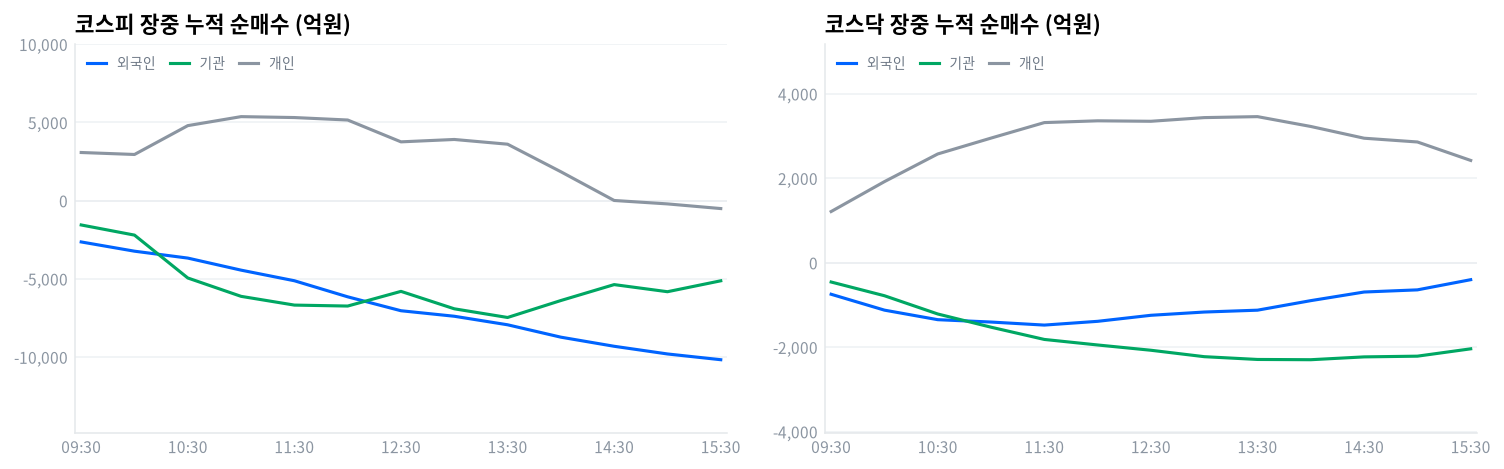
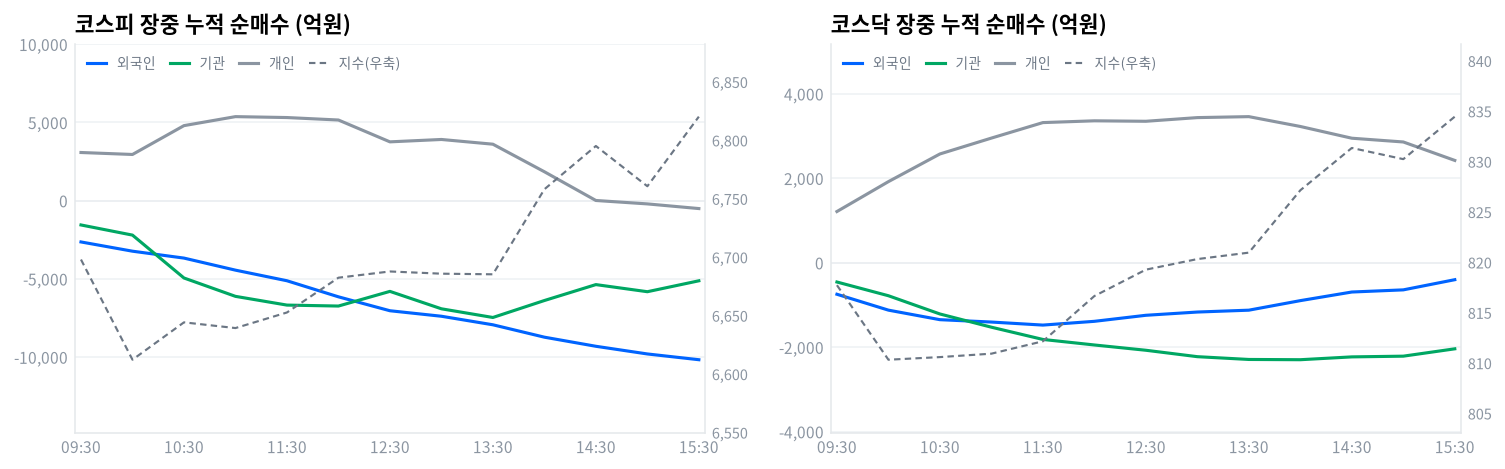
자정 넘겨 도착한 08-31 수집분을 되돌린다 — 장중 계열이 비어 있다
예약 실행이 16:00 UTC(09-01 01:00 KST)에 도착했다. 그 시각 네이버는
08-31 장중 계열을 더는 주지 않아 kr_intraday 30분봉이 0개, kr_technical
종가가 null, kr_session 아시아 지수와 kr_sector 가 08-28 값으로 되돌아왔다.
마감 직후 19:54 KST 수동 실행분(e80f24f)이 08-31 의 정본이므로 그것으로
되돌린다. 시장 데이터·수급·프로그램·거래대금은 손대지 않았다.

diff --git a/kr/data/kr_sector.html b/kr/data/kr_sector.html
@@ -1,1 +1,1 @@
-<style>.spf-grid{display:grid;grid-template-columns:repeat(5,1fr);gap:10px}.spf-block{display:flex;align-items:center;gap:6px;margin:3px 0;font-size:12px}.spf-name{flex:0 0 72px}.spf-bar{flex:1;background:#f2f4f6;border-radius:4px;height:10px}.spf-bar i{display:block;height:10px;border-radius:4px}.spf-val{flex:0 0 52px;text-align:right}.spf-col h4{margin:0 0 6px;font-size:13px}@media(max-width:560px){.spf-grid{grid-template-columns:1fr}}</style><div class="spf-grid"><div class="spf-col"><h4>1D</h4><div class="spf-block"><span class="spf-name">소프트웨어</span><span class="spf-bar"><i style="width:7%;background:#00a763"></i></span><span class="spf-val" style="color:#00a763">+1.77%</span></div><div class="spf-block"><span class="spf-name">은행</span><span class="spf-bar"><i style="width:5%;background:#00a763"></i></span><span class="spf-val" style="color:#00a763">+1.33%</span></div><div class="spf-block"><span class="spf-name">자동차</span><span class="spf-bar"><i style="width:3%;background:#00a763"></i></span><span class="spf-val" style="color:#00a763">+0.81%</span></div><div class="spf-block"><span class="spf-name">철강소재</span><span class="spf-bar"><i style="width:1%;background:#00a763"></i></span><span class="spf-val" style="color:#00a763">+0.35%</span></div><div class="spf-block"><span class="spf-name">증권</span><span class="spf-bar"><i style="width:0%;background:#00a763"></i></span><span class="spf-val" style="color:#00a763">+0.05%</span></div><div class="spf-block"><span class="spf-name">2차전지</span><span class="spf-bar"><i style="width:1%;background:#e5342b"></i></span><span class="spf-val" style="color:#e5342b">-0.17%</span></div><div class="spf-block"><span class="spf-name">헬스케어</span><span class="spf-bar"><i style="width:1%;background:#e5342b"></i></span><span class="spf-val" style="color:#e5342b">-0.33%</span></div><div class="spf-block"><span class="spf-name">건설</span><span class="spf-bar"><i style="width:4%;background:#e5342b"></i></span><span class="spf-val" style="color:#e5342b">-0.90%</span></div><div class="spf-block"><span class="spf-name">방산</span><span class="spf-bar"><i style="width:4%;background:#e5342b"></i></span><span class="spf-val" style="color:#e5342b">-0.98%</span></div><div class="spf-block"><span class="spf-name">로봇</span><span class="spf-bar"><i style="width:4%;background:#e5342b"></i></span><span class="spf-val" style="color:#e5342b">-1.05%</span></div><div class="spf-block"><span class="spf-name">조선</span><span class="spf-bar"><i style="width:4%;background:#e5342b"></i></span><span class="spf-val" style="color:#e5342b">-1.05%</span></div><div class="spf-block"><span class="spf-name">반도체</span><span class="spf-bar"><i style="width:9%;background:#e5342b"></i></span><span class="spf-val" style="color:#e5342b">-2.32%</span></div></div><div class="spf-col"><h4>1W</h4><div class="spf-block"><span class="spf-name">건설</span><span class="spf-bar"><i style="width:59%;background:#00a763"></i></span><span class="spf-val" style="color:#00a763">+14.76%</span></div><div class="spf-block"><span class="spf-name">철강소재</span><span class="spf-bar"><i style="width:45%;background:#00a763"></i></span><span class="spf-val" style="color:#00a763">+11.26%</span></div><div class="spf-block"><span class="spf-name">2차전지</span><span class="spf-bar"><i style="width:41%;background:#00a763"></i></span><span class="spf-val" style="color:#00a763">+10.25%</span></div><div class="spf-block"><span class="spf-name">방산</span><span class="spf-bar"><i style="width:22%;background:#00a763"></i></span><span class="spf-val" style="color:#00a763">+5.48%</span></div><div class="spf-block"><span class="spf-name">은행</span><span class="spf-bar"><i style="width:20%;background:#00a763"></i></span><span class="spf-val" style="color:#00a763">+4.94%</span></div><div class="spf-block"><span class="spf-name">조선</span><span class="spf-bar"><i style="width:15%;background:#00a763"></i></span><span class="spf-val" style="color:#00a763">+3.76%</span></div><div class="spf-block"><span class="spf-name">헬스케어</span><span class="spf-bar"><i style="width:8%;background:#00a763"></i></span><span class="spf-val" style="color:#00a763">+1.88%</span></div><div class="spf-block"><span class="spf-name">증권</span><span class="spf-bar"><i style="width:7%;background:#00a763"></i></span><span class="spf-val" style="color:#00a763">+1.67%</span></div><div class="spf-block"><span class="spf-name">소프트웨어</span><span class="spf-bar"><i style="width:6%;background:#00a763"></i></span><span class="spf-val" style="color:#00a763">+1.59%</span></div><div class="spf-block"><span class="spf-name">로봇</span><span class="spf-bar"><i style="width:9%;background:#e5342b"></i></span><span class="spf-val" style="color:#e5342b">-2.14%</span></div><div class="spf-block"><span class="spf-name">반도체</span><span class="spf-bar"><i style="width:9%;background:#e5342b"></i></span><span class="spf-val" style="color:#e5342b">-2.21%</span></div><div class="spf-block"><span class="spf-name">자동차</span><span class="spf-bar"><i style="width:11%;background:#e5342b"></i></span><span class="spf-val" style="color:#e5342b">-2.86%</span></div></div><div class="spf-col"><h4>1M</h4><div class="spf-block"><span class="spf-name">건설</span><span class="spf-bar"><i style="width:100%;background:#00a763"></i></span><span class="spf-val" style="color:#00a763">+37.73%</span></div><div class="spf-block"><span class="spf-name">철강소재</span><span class="spf-bar"><i style="width:100%;background:#00a763"></i></span><span class="spf-val" style="color:#00a763">+32.99%</span></div><div class="spf-block"><span class="spf-name">2차전지</span><span class="spf-bar"><i style="width:100%;background:#00a763"></i></span><span class="spf-val" style="color:#00a763">+30.09%</span></div><div class="spf-block"><span class="spf-name">반도체</span><span class="spf-bar"><i style="width:100%;background:#00a763"></i></span><span class="spf-val" style="color:#00a763">+26.36%</span></div><div class="spf-block"><span class="spf-name">방산</span><span class="spf-bar"><i style="width:99%;background:#00a763"></i></span><span class="spf-val" style="color:#00a763">+24.85%</span></div><div class="spf-block"><span class="spf-name">로봇</span><span class="spf-bar"><i style="width:73%;background:#00a763"></i></span><span class="spf-val" style="color:#00a763">+18.15%</span></div><div class="spf-block"><span class="spf-name">헬스케어</span><span class="spf-bar"><i style="width:70%;background:#00a763"></i></span><span class="spf-val" style="color:#00a763">+17.44%</span></div><div class="spf-block"><span class="spf-name">조선</span><span class="spf-bar"><i style="width:43%;background:#00a763"></i></span><span class="spf-val" style="color:#00a763">+10.69%</span></div><div class="spf-block"><span class="spf-name">소프트웨어</span><span class="spf-bar"><i style="width:34%;background:#00a763"></i></span><span class="spf-val" style="color:#00a763">+8.43%</span></div><div class="spf-block"><span class="spf-name">자동차</span><span class="spf-bar"><i style="width:33%;background:#00a763"></i></span><span class="spf-val" style="color:#00a763">+8.17%</span></div><div class="spf-block"><span class="spf-name">은행</span><span class="spf-bar"><i style="width:32%;background:#00a763"></i></span><span class="spf-val" style="color:#00a763">+8.09%</span></div><div class="spf-block"><span class="spf-name">증권</span><span class="spf-bar"><i style="width:32%;background:#00a763"></i></span><span class="spf-val" style="color:#00a763">+7.89%</span></div></div><div class="spf-col"><h4>6M</h4><div class="spf-block"><span class="spf-name">반도체</span><span class="spf-bar"><i style="width:100%;background:#00a763"></i></span><span class="spf-val" style="color:#00a763">+29.84%</span></div><div class="spf-block"><span class="spf-name">건설</span><span class="spf-bar"><i style="width:40%;background:#00a763"></i></span><span class="spf-val" style="color:#00a763">+9.99%</span></div><div class="spf-block"><span class="spf-name">은행</span><span class="spf-bar"><i style="width:11%;background:#e5342b"></i></span><span class="spf-val" style="color:#e5342b">-2.82%</span></div><div class="spf-block"><span class="spf-name">로봇</span><span class="spf-bar"><i style="width:56%;background:#e5342b"></i></span><span class="spf-val" style="color:#e5342b">-13.95%</span></div><div class="spf-block"><span class="spf-name">소프트웨어</span><span class="spf-bar"><i style="width:58%;background:#e5342b"></i></span><span class="spf-val" style="color:#e5342b">-14.41%</span></div><div class="spf-block"><span class="spf-name">자동차</span><span class="spf-bar"><i style="width:70%;background:#e5342b"></i></span><span class="spf-val" style="color:#e5342b">-17.47%</span></div><div class="spf-block"><span class="spf-name">2차전지</span><span class="spf-bar"><i style="width:70%;background:#e5342b"></i></span><span class="spf-val" style="color:#e5342b">-17.50%</span></div><div class="spf-block"><span class="spf-name">철강소재</span><span class="spf-bar"><i style="width:78%;background:#e5342b"></i></span><span class="spf-val" style="color:#e5342b">-19.51%</span></div><div class="spf-block"><span class="spf-name">방산</span><span class="spf-bar"><i style="width:87%;background:#e5342b"></i></span><span class="spf-val" style="color:#e5342b">-21.70%</span></div><div class="spf-block"><span class="spf-name">조선</span><span class="spf-bar"><i style="width:100%;background:#e5342b"></i></span><span class="spf-val" style="color:#e5342b">-26.78%</span></div><div class="spf-block"><span class="spf-name">헬스케어</span><span class="spf-bar"><i style="width:100%;background:#e5342b"></i></span><span class="spf-val" style="color:#e5342b">-28.49%</span></div><div class="spf-block"><span class="spf-name">증권</span><span class="spf-bar"><i style="width:100%;background:#e5342b"></i></span><span class="spf-val" style="color:#e5342b">-35.34%</span></div></div><div class="spf-col"><h4>1Y</h4><div class="spf-block"><span class="spf-name">반도체</span><span class="spf-bar"><i style="width:100%;background:#00a763"></i></span><span class="spf-val" style="color:#00a763">+223.75%</span></div><div class="spf-block"><span class="spf-name">로봇</span><span class="spf-bar"><i style="width:100%;background:#00a763"></i></span><span class="spf-val" style="color:#00a763">+84.67%</span></div><div class="spf-block"><span class="spf-name">건설</span><span class="spf-bar"><i style="width:100%;background:#00a763"></i></span><span class="spf-val" style="color:#00a763">+73.67%</span></div><div class="spf-block"><span class="spf-name">자동차</span><span class="spf-bar"><i style="width:100%;background:#00a763"></i></span><span class="spf-val" style="color:#00a763">+45.16%</span></div><div class="spf-block"><span class="spf-name">증권</span><span class="spf-bar"><i style="width:100%;background:#00a763"></i></span><span class="spf-val" style="color:#00a763">+42.50%</span></div><div class="spf-block"><span class="spf-name">은행</span><span class="spf-bar"><i style="width:100%;background:#00a763"></i></span><span class="spf-val" style="color:#00a763">+37.59%</span></div><div class="spf-block"><span class="spf-name">2차전지</span><span class="spf-bar"><i style="width:63%;background:#00a763"></i></span><span class="spf-val" style="color:#00a763">+15.65%</span></div><div class="spf-block"><span class="spf-name">철강소재</span><span class="spf-bar"><i style="width:49%;background:#00a763"></i></span><span class="spf-val" style="color:#00a763">+12.22%</span></div><div class="spf-block"><span class="spf-name">방산</span><span class="spf-bar"><i style="width:40%;background:#00a763"></i></span><span class="spf-val" style="color:#00a763">+9.93%</span></div><div class="spf-block"><span class="spf-name">헬스케어</span><span class="spf-bar"><i style="width:18%;background:#e5342b"></i></span><span class="spf-val" style="color:#e5342b">-4.59%</span></div><div class="spf-block"><span class="spf-name">조선</span><span class="spf-bar"><i style="width:27%;background:#e5342b"></i></span><span class="spf-val" style="color:#e5342b">-6.68%</span></div><div class="spf-block"><span class="spf-name">소프트웨어</span><span class="spf-bar"><i style="width:33%;background:#e5342b"></i></span><span class="spf-val" style="color:#e5342b">-8.20%</span></div></div></div>
+<style>.spf-grid{display:grid;grid-template-columns:repeat(5,1fr);gap:10px}.spf-block{display:flex;align-items:center;gap:6px;margin:3px 0;font-size:12px}.spf-name{flex:0 0 72px}.spf-bar{flex:1;background:#f2f4f6;border-radius:4px;height:10px}.spf-bar i{display:block;height:10px;border-radius:4px}.spf-val{flex:0 0 52px;text-align:right}.spf-col h4{margin:0 0 6px;font-size:13px}@media(max-width:560px){.spf-grid{grid-template-columns:1fr}}</style><div class="spf-grid"><div class="spf-col"><h4>1D</h4><div class="spf-block"><span class="spf-name">2차전지</span><span class="spf-bar"><i style="width:10%;background:#00a763"></i></span><span class="spf-val" style="color:#00a763">+2.61%</span></div><div class="spf-block"><span class="spf-name">로봇</span><span class="spf-bar"><i style="width:5%;background:#00a763"></i></span><span class="spf-val" style="color:#00a763">+1.24%</span></div><div class="spf-block"><span class="spf-name">자동차</span><span class="spf-bar"><i style="width:4%;background:#00a763"></i></span><span class="spf-val" style="color:#00a763">+0.98%</span></div><div class="spf-block"><span class="spf-name">반도체</span><span class="spf-bar"><i style="width:1%;background:#00a763"></i></span><span class="spf-val" style="color:#00a763">+0.34%</span></div><div class="spf-block"><span class="spf-name">은행</span><span class="spf-bar"><i style="width:0%;background:#00a763"></i></span><span class="spf-val" style="color:#00a763">+0.03%</span></div><div class="spf-block"><span class="spf-name">소프트웨어</span><span class="spf-bar"><i style="width:0%;background:#e5342b"></i></span><span class="spf-val" style="color:#e5342b">-0.06%</span></div><div class="spf-block"><span class="spf-name">증권</span><span class="spf-bar"><i style="width:3%;background:#e5342b"></i></span><span class="spf-val" style="color:#e5342b">-0.81%</span></div><div class="spf-block"><span class="spf-name">조선</span><span class="spf-bar"><i style="width:4%;background:#e5342b"></i></span><span class="spf-val" style="color:#e5342b">-0.96%</span></div><div class="spf-block"><span class="spf-name">헬스케어</span><span class="spf-bar"><i style="width:6%;background:#e5342b"></i></span><span class="spf-val" style="color:#e5342b">-1.43%</span></div><div class="spf-block"><span class="spf-name">철강소재</span><span class="spf-bar"><i style="width:9%;background:#e5342b"></i></span><span class="spf-val" style="color:#e5342b">-2.30%</span></div><div class="spf-block"><span class="spf-name">방산</span><span class="spf-bar"><i style="width:13%;background:#e5342b"></i></span><span class="spf-val" style="color:#e5342b">-3.16%</span></div><div class="spf-block"><span class="spf-name">건설</span><span class="spf-bar"><i style="width:15%;background:#e5342b"></i></span><span class="spf-val" style="color:#e5342b">-3.63%</span></div></div><div class="spf-col"><h4>1W</h4><div class="spf-block"><span class="spf-name">건설</span><span class="spf-bar"><i style="width:42%;background:#00a763"></i></span><span class="spf-val" style="color:#00a763">+10.59%</span></div><div class="spf-block"><span class="spf-name">2차전지</span><span class="spf-bar"><i style="width:26%;background:#00a763"></i></span><span class="spf-val" style="color:#00a763">+6.49%</span></div><div class="spf-block"><span class="spf-name">은행</span><span class="spf-bar"><i style="width:20%;background:#00a763"></i></span><span class="spf-val" style="color:#00a763">+4.90%</span></div><div class="spf-block"><span class="spf-name">철강소재</span><span class="spf-bar"><i style="width:12%;background:#00a763"></i></span><span class="spf-val" style="color:#00a763">+2.91%</span></div><div class="spf-block"><span class="spf-name">조선</span><span class="spf-bar"><i style="width:11%;background:#00a763"></i></span><span class="spf-val" style="color:#00a763">+2.82%</span></div><div class="spf-block"><span class="spf-name">증권</span><span class="spf-bar"><i style="width:11%;background:#00a763"></i></span><span class="spf-val" style="color:#00a763">+2.68%</span></div><div class="spf-block"><span class="spf-name">반도체</span><span class="spf-bar"><i style="width:8%;background:#00a763"></i></span><span class="spf-val" style="color:#00a763">+2.00%</span></div><div class="spf-block"><span class="spf-name">방산</span><span class="spf-bar"><i style="width:3%;background:#00a763"></i></span><span class="spf-val" style="color:#00a763">+0.73%</span></div><div class="spf-block"><span class="spf-name">소프트웨어</span><span class="spf-bar"><i style="width:2%;background:#00a763"></i></span><span class="spf-val" style="color:#00a763">+0.58%</span></div><div class="spf-block"><span class="spf-name">로봇</span><span class="spf-bar"><i style="width:2%;background:#00a763"></i></span><span class="spf-val" style="color:#00a763">+0.54%</span></div><div class="spf-block"><span class="spf-name">자동차</span><span class="spf-bar"><i style="width:9%;background:#e5342b"></i></span><span class="spf-val" style="color:#e5342b">-2.18%</span></div><div class="spf-block"><span class="spf-name">헬스케어</span><span class="spf-bar"><i style="width:9%;background:#e5342b"></i></span><span class="spf-val" style="color:#e5342b">-2.22%</span></div></div><div class="spf-col"><h4>1M</h4><div class="spf-block"><span class="spf-name">건설</span><span class="spf-bar"><i style="width:100%;background:#00a763"></i></span><span class="spf-val" style="color:#00a763">+34.93%</span></div><div class="spf-block"><span class="spf-name">반도체</span><span class="spf-bar"><i style="width:100%;background:#00a763"></i></span><span class="spf-val" style="color:#00a763">+33.10%</span></div><div class="spf-block"><span class="spf-name">2차전지</span><span class="spf-bar"><i style="width:100%;background:#00a763"></i></span><span class="spf-val" style="color:#00a763">+28.62%</span></div><div class="spf-block"><span class="spf-name">철강소재</span><span class="spf-bar"><i style="width:100%;background:#00a763"></i></span><span class="spf-val" style="color:#00a763">+26.51%</span></div><div class="spf-block"><span class="spf-name">로봇</span><span class="spf-bar"><i style="width:96%;background:#00a763"></i></span><span class="spf-val" style="color:#00a763">+23.92%</span></div><div class="spf-block"><span class="spf-name">방산</span><span class="spf-bar"><i style="width:65%;background:#00a763"></i></span><span class="spf-val" style="color:#00a763">+16.30%</span></div><div class="spf-block"><span class="spf-name">헬스케어</span><span class="spf-bar"><i style="width:62%;background:#00a763"></i></span><span class="spf-val" style="color:#00a763">+15.43%</span></div><div class="spf-block"><span class="spf-name">자동차</span><span class="spf-bar"><i style="width:35%;background:#00a763"></i></span><span class="spf-val" style="color:#00a763">+8.83%</span></div><div class="spf-block"><span class="spf-name">소프트웨어</span><span class="spf-bar"><i style="width:33%;background:#00a763"></i></span><span class="spf-val" style="color:#00a763">+8.17%</span></div><div class="spf-block"><span class="spf-name">증권</span><span class="spf-bar"><i style="width:29%;background:#00a763"></i></span><span class="spf-val" style="color:#00a763">+7.33%</span></div><div class="spf-block"><span class="spf-name">은행</span><span class="spf-bar"><i style="width:22%;background:#00a763"></i></span><span class="spf-val" style="color:#00a763">+5.61%</span></div><div class="spf-block"><span class="spf-name">조선</span><span class="spf-bar"><i style="width:22%;background:#00a763"></i></span><span class="spf-val" style="color:#00a763">+5.40%</span></div></div><div class="spf-col"><h4>6M</h4><div class="spf-block"><span class="spf-name">반도체</span><span class="spf-bar"><i style="width:100%;background:#00a763"></i></span><span class="spf-val" style="color:#00a763">+29.58%</span></div><div class="spf-block"><span class="spf-name">건설</span><span class="spf-bar"><i style="width:4%;background:#00a763"></i></span><span class="spf-val" style="color:#00a763">+1.03%</span></div><div class="spf-block"><span class="spf-name">은행</span><span class="spf-bar"><i style="width:12%;background:#e5342b"></i></span><span class="spf-val" style="color:#e5342b">-3.11%</span></div><div class="spf-block"><span class="spf-name">소프트웨어</span><span class="spf-bar"><i style="width:61%;background:#e5342b"></i></span><span class="spf-val" style="color:#e5342b">-15.17%</span></div><div class="spf-block"><span class="spf-name">로봇</span><span class="spf-bar"><i style="width:67%;background:#e5342b"></i></span><span class="spf-val" style="color:#e5342b">-16.66%</span></div><div class="spf-block"><span class="spf-name">2차전지</span><span class="spf-bar"><i style="width:73%;background:#e5342b"></i></span><span class="spf-val" style="color:#e5342b">-18.14%</span></div><div class="spf-block"><span class="spf-name">자동차</span><span class="spf-bar"><i style="width:87%;background:#e5342b"></i></span><span class="spf-val" style="color:#e5342b">-21.73%</span></div><div class="spf-block"><span class="spf-name">방산</span><span class="spf-bar"><i style="width:95%;background:#e5342b"></i></span><span class="spf-val" style="color:#e5342b">-23.76%</span></div><div class="spf-block"><span class="spf-name">철강소재</span><span class="spf-bar"><i style="width:98%;background:#e5342b"></i></span><span class="spf-val" style="color:#e5342b">-24.59%</span></div><div class="spf-block"><span class="spf-name">조선</span><span class="spf-bar"><i style="width:100%;background:#e5342b"></i></span><span class="spf-val" style="color:#e5342b">-27.52%</span></div><div class="spf-block"><span class="spf-name">헬스케어</span><span class="spf-bar"><i style="width:100%;background:#e5342b"></i></span><span class="spf-val" style="color:#e5342b">-28.52%</span></div><div class="spf-block"><span class="spf-name">증권</span><span class="spf-bar"><i style="width:100%;background:#e5342b"></i></span><span class="spf-val" style="color:#e5342b">-37.80%</span></div></div><div class="spf-col"><h4>1Y</h4><div class="spf-block"><span class="spf-name">반도체</span><span class="spf-bar"><i style="width:100%;background:#00a763"></i></span><span class="spf-val" style="color:#00a763">+234.80%</span></div><div class="spf-block"><span class="spf-name">로봇</span><span class="spf-bar"><i style="width:100%;background:#00a763"></i></span><span class="spf-val" style="color:#00a763">+90.00%</span></div><div class="spf-block"><span class="spf-name">건설</span><span class="spf-bar"><i style="width:100%;background:#00a763"></i></span><span class="spf-val" style="color:#00a763">+67.97%</span></div><div class="spf-block"><span class="spf-name">자동차</span><span class="spf-bar"><i style="width:100%;background:#00a763"></i></span><span class="spf-val" style="color:#00a763">+48.58%</span></div><div class="spf-block"><span class="spf-name">증권</span><span class="spf-bar"><i style="width:100%;background:#00a763"></i></span><span class="spf-val" style="color:#00a763">+44.80%</span></div><div class="spf-block"><span class="spf-name">은행</span><span class="spf-bar"><i style="width:100%;background:#00a763"></i></span><span class="spf-val" style="color:#00a763">+41.44%</span></div><div class="spf-block"><span class="spf-name">2차전지</span><span class="spf-bar"><i style="width:89%;background:#00a763"></i></span><span class="spf-val" style="color:#00a763">+22.28%</span></div><div class="spf-block"><span class="spf-name">철강소재</span><span class="spf-bar"><i style="width:48%;background:#00a763"></i></span><span class="spf-val" style="color:#00a763">+11.95%</span></div><div class="spf-block"><span class="spf-name">방산</span><span class="spf-bar"><i style="width:23%;background:#00a763"></i></span><span class="spf-val" style="color:#00a763">+5.80%</span></div><div class="spf-block"><span class="spf-name">헬스케어</span><span class="spf-bar"><i style="width:18%;background:#e5342b"></i></span><span class="spf-val" style="color:#e5342b">-4.55%</span></div><div class="spf-block"><span class="spf-name">조선</span><span class="spf-bar"><i style="width:33%;background:#e5342b"></i></span><span class="spf-val" style="color:#e5342b">-8.33%</span></div><div class="spf-block"><span class="spf-name">소프트웨어</span><span class="spf-bar"><i style="width:33%;background:#e5342b"></i></span><span class="spf-val" style="color:#e5342b">-8.36%</span></div></div></div>
